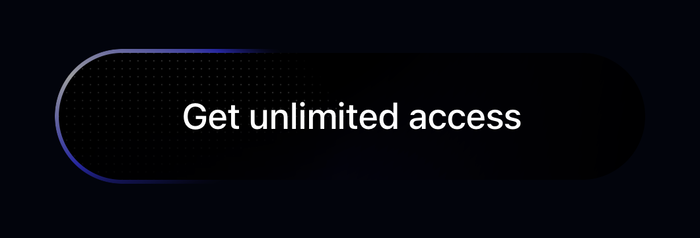
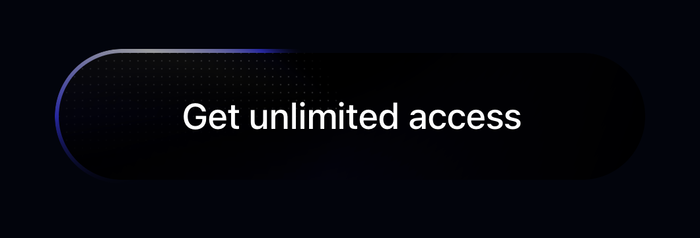
feat(shiny-button): light the dots the halo sweeps over
The dot grid was revealed by the rotating wedge but barely lit, so the
button read as flat black and the dots were hard to make out.

The obvious lever — the inner shimmer's opacity — turned out to do
nothing: its CSS mask, `radial-gradient(circle at bottom, transparent
40%, black)`, is centred below the pill and hides the shimmer across
almost all of it. Measured over a full revolution, the interior swung
only 12.4 -> 13.5 mean luminance, and raising the shimmer opacity from
0.6 to 1 left that range unchanged. Reverted to the CSS value.

Added instead a blue wash inside the pill that reuses the border sweep's
colours, stops and rotation, so it stays locked to the halo and cannot
drift out of phase. It is masked by an ellipse of the pill's half-extents
(dark centre, clear rim): a bare sweep gradient fills its wedge down to
the centre and reads as a cone converging on the middle of the button
rather than light spilling inward from the border.

This layer has no counterpart in the pen. Documented as such in the
README limitations and in AGENTS.md, with the measurements that motivate
it, so it is not mistaken for part of the port.

Interior now swings 13.6 -> 14.6 and the dots under the halo read
clearly. Press state unaffected: the wash widens with the border band
because it shares its stops.

diff --git a/src/constants/shiny-button.ts b/src/constants/shiny-button.ts
@@ -128,6 +128,39 @@ export const DOT_MASK_STOPS = [0, 0.1, 0.9, 1];
 export const DOT_MASK_LEAD_DEG = 45;
 
 /* -------------------------------------------------------------------------- */
+/* Inner halo wash — deliberate deviation from the CSS                         */
+/* -------------------------------------------------------------------------- */
+
+/**
+ * A blue wash inside the pill that follows the border halo, so the dots it
+ * sweeps over are actually lit.
+ *
+ * This layer has no counterpart in the pen. In the browser the interior light
+ * comes from `::after`, but its mask — `radial-gradient(circle at bottom,
+ * transparent 40%, black)` — is centred below the pill and hides the shimmer
+ * across nearly all of it: measured over a full revolution, the interior swung
+ * only 12.4 → 13.5 mean luminance, so raising the shimmer's own opacity did
+ * nothing visible.
+ *
+ * The wash reuses the border sweep's colours, stops and rotation, so it stays
+ * locked to the halo by construction and cannot drift out of phase with it.
+ */
+export const INNER_WASH_OPACITY = 0.22;
+
+/**
+ * A sweep gradient fills its whole wedge, right down to the centre, which makes
+ * the wash read as a cone converging on the middle of the pill. Masking it with
+ * an ellipse — dark at the centre, clear at the rim — turns it back into light
+ * spilling inward from the border, which is what the halo should look like.
+ *
+ * Scaling a circle of radius {@link RADIUS} by this factor gives an ellipse of
+ * exactly the pill's half-extents (150 × 34).
+ */
+export const INNER_WASH_SCALE_X = WIDTH / HEIGHT;
+/** Hidden until 25% of the way out, fully clear at the rim. */
+export const INNER_WASH_FALLOFF = [0.25, 1];
+
+/* -------------------------------------------------------------------------- */
 /* Text glow (`.shiny-cta span::before`)                                       */
 /* -------------------------------------------------------------------------- */
 

diff --git a/src/components/shiny-button.tsx b/src/components/shiny-button.tsx
@@ -50,6 +50,9 @@ import {
   GLOW_RADIUS,
   HEIGHT,
   HIGHLIGHT,
+  INNER_WASH_FALLOFF,
+  INNER_WASH_OPACITY,
+  INNER_WASH_SCALE_X,
   RADIUS,
   SHIMMER_END,
   SHIMMER_MASK_CENTER,
@@ -135,6 +138,40 @@ export function ShinyButton({ label = 'Get unlimited access', onPress }: ShinyBu
               }
             >
               <Path path={dotPath} color="white" opacity={DOT_OPACITY} />
+            </Mask>
+
+            {/*
+              Blue wash trailing the halo, so the dots it passes over are lit.
+              Shares the border's colours, stops and rotation, so it stays in
+              phase with the halo by construction. Not in the original CSS —
+              see INNER_WASH_OPACITY for why it is needed here.
+            */}
+            <Mask
+              mode="luminance"
+              mask={
+                <Rect x={0} y={0} width={WIDTH} height={HEIGHT}>
+                  <RadialGradient
+                    c={CENTER}
+                    r={RADIUS}
+                    colors={['black', 'white']}
+                    positions={INNER_WASH_FALLOFF}
+                    transform={[{ scaleX: INNER_WASH_SCALE_X }]}
+                    origin={CENTER}
+                  />
+                </Rect>
+              }
+            >
+              <Group opacity={INNER_WASH_OPACITY}>
+                <Rect x={0} y={0} width={WIDTH} height={HEIGHT}>
+                  <SweepGradient
+                    c={CENTER}
+                    colors={borderColors}
+                    positions={borderPositions}
+                    transform={borderTransform}
+                    origin={CENTER}
+                  />
+                </Rect>
+              </Group>
             </Mask>
 
             {/* Inner shimmer: the mask spins with the gradient, so it orbits. */}

diff --git a/AGENTS.md b/AGENTS.md
@@ -33,6 +33,23 @@ naming the CSS declaration it came from. Change values there, not inline.
 | `mask-image` | `<Mask mode="luminance">` — **white reveals, black hides** |
 | `:hover` / `:focus` | `onPressIn` / `onPressOut` |
 | `isolation: isolate` + `z-index: -1` | paint order: body fill first, decorative layers after, clipped to the body |
+| *(no equivalent)* | the inner wash — see below |
+
+### The one deliberate deviation
+
+`shiny-button.tsx` paints a blue wash inside the pill that follows the halo.
+The pen has no such layer: in the browser the interior light comes from
+`::after`, but its mask — `radial-gradient(circle at bottom, transparent 40%,
+black)` — is centred *below* the pill and hides the shimmer across nearly all
+of it. Ported literally, the interior swung only 12.4 → 13.5 mean luminance
+over a full revolution, so the dots never lit up and raising the shimmer's own
+opacity changed nothing.
+
+The wash reuses the border sweep's colours, stops and rotation, so it stays in
+phase with the halo by construction. It is masked by an ellipse (dark centre,
+clear rim) because a bare sweep gradient fills its wedge down to the centre and
+reads as a cone converging on the middle of the button rather than as light
+spilling in from the border.
 
 ### The rotation model
 

diff --git a/README.md b/README.md
@@ -63,6 +63,11 @@ native code, so the app has to be compiled. `npm run ios` runs
   changing `WIDTH`.
 - The glow is a blurred circle rather than the CSS inset `box-shadow`. It reads
   the same at rest and while held, but it is an approximation, not a port.
+- There is **one layer with no counterpart in the pen**: a blue wash inside the
+  pill that follows the halo, so the dots it passes over are actually lit. In
+  the browser that light comes from `::after`, but its mask hides it across
+  almost the whole pill; ported literally, the interior stayed flat black. See
+  `INNER_WASH_OPACITY` in the constants for the measurements behind it.
 - **Press-and-hold is not the same as hover.** The CSS runs the active state
   while the pointer merely rests on the button; here it needs a finger down.
 - Four lint errors are suppressed in `use-shiny-button-animation.ts`. The React
